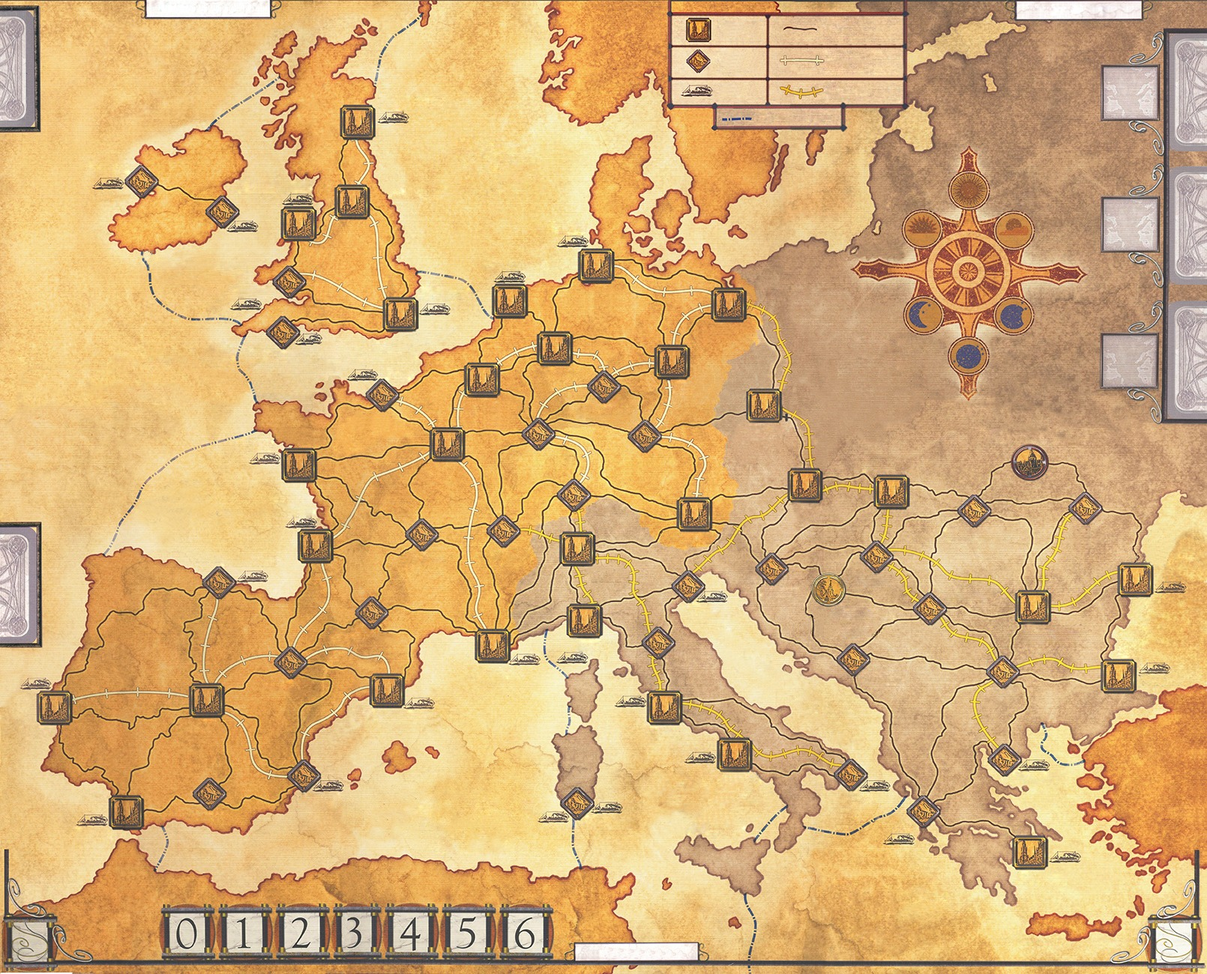
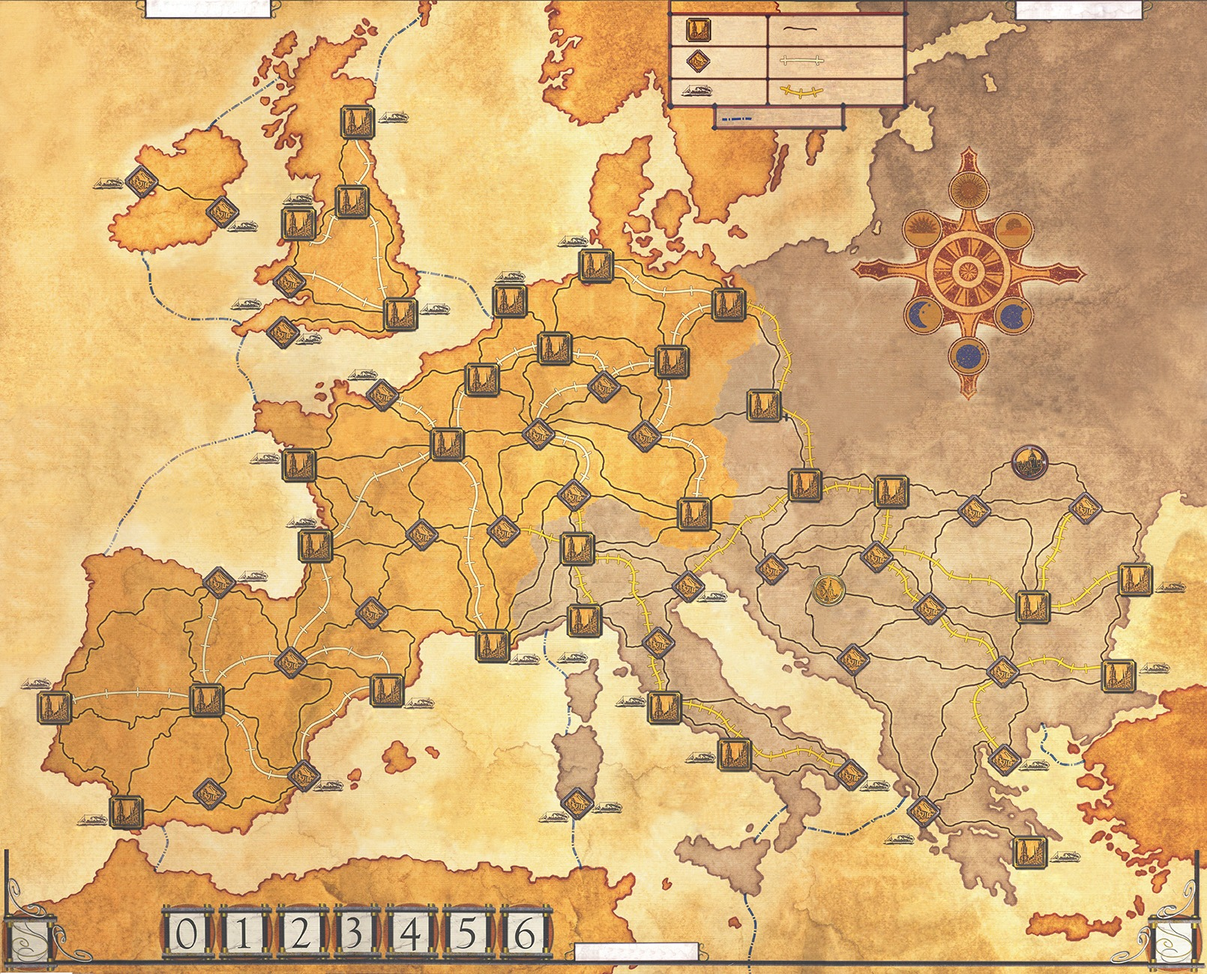
1)player card column at the right 2)add menu

Changed region(s): [[0.9006, 0.0308, 1.0, 0.4615], [0.0, 0.5231, 0.0621, 0.6769], [0.0, 0.0, 0.0621, 0.1538]]

diff --git a/dracula/GUI/Scene.qml b/dracula/GUI/Scene.qml
@@ -4,11 +4,10 @@ import "../GUI"
 
 Rectangle {
     id: scene
-    property double scaleKoef:1
-    anchors.fill: parent
-    color: "#de1313"
+    anchors.fill : parent
+    color: "transparent"
 
-
+    property real cardRowWidth : gameWindow.height *0.1
     property var dayNightY : [0.215997, 0.175820, 0.217840, 0.3052, 0.345742, 0.30446]
     property var dayNightX : [0.746869, 0.785033, 0.823494, 0.8226, 0.785033, 0.74836]
 
@@ -35,7 +34,6 @@ Rectangle {
                 playerRepeater.itemAt(k).phi = guimanager.getPlayerPhi(k)
                 playerRepeater.itemAt(k).isChoosed = (k === whoMoves) ? true : false
                 playerRepeater.itemAt(k).scale = 1
-                //playerRepeater.itemAt(k).scale = (k === whoMoves) ? 1.0 : 1
             }
             dayNight.index = guimanager.getDayNightPosition()
             console.log("DayNightPosition = ", guimanager.getDayNightPosition())
@@ -52,30 +50,45 @@ Rectangle {
     //property bool isWindowSizeChanged
     function changeMapSize() {
         animated = false // forbit any animation during resizing
-        flickable.contentWidth = gameWindow.width
-        flickable.contentHeight = map.sourceSize.height * gameWindow.width / map.sourceSize.width
+        var w = scene.width - playerCards.width
+        flickable.contentWidth = w
+        flickable.contentHeight = map.sourceSize.height * w / map.sourceSize.width
     }
 
     Image {
         id:background
         source : "file:" + "../images/wood.jpg"
-        anchors.fill: parent
+        anchors.fill: scene
+//        z:1
+    }
+
+    Rectangle{
+        id:mapRect
+        color: "transparent"
+        anchors.left: scene.left
+        anchors.top:scene.top
+        width : scene.width - playerCards.width
+        height: scene.height
     }
 
     Flickable
     {
         id: flickable
-        anchors.fill: parent
+//        anchors.fill: parent
+        anchors.fill : mapRect
         contentWidth:  map.width
         contentHeight: map.height
-        interactive: true
-        //boundsBehavior: Flickable.StopAtBounds
+//        interactive: true
+        boundsBehavior: Flickable.StopAtBounds
         Image {
             id: map
             anchors.fill: parent
             source: "file:" + "../images/map.jpg"
             Component.onCompleted: {
-                var mult = gameWindow.width / map.sourceSize.width
+//                var mult = gameWindow.width / map.sourceSize.width
+//                var mult = (scene.width - playerCards.width)/ map.sourceSize.width
+//                var mult = (gameWindow.width - playerCards.width)/ map.sourceSize.width
+                var mult = (gameWindow.width - cardRowWidth)/ map.sourceSize.width //TODO variable gameWindow.height*0.1 is in playerCard too
                 flickable.contentWidth = map.sourceSize.width * mult
                 flickable.contentHeight =  map.sourceSize.height * mult
             }
@@ -83,12 +96,20 @@ Rectangle {
                 id: mouseAreaScene
                 anchors.fill: parent
                 onWheel: {
-                    var sideIsBigger = flickable.contentWidth > gameWindow.width || flickable.contentHeight > gameWindow.height
-                    var sideIsSmaller = flickable.contentWidth < gameWindow.width || flickable.contentHeight < gameWindow.height
+                    var w = scene.width - playerCards.width
+//                    var w = gameWindow.width
+                    var sideIsBigger = flickable.contentWidth > w || flickable.contentHeight > scene.height
+//                    var sideIsSmaller = flickable.contentWidth < w || flickable.contentHeight < scene.height
+                     var sideIsSmaller = flickable.contentWidth < w
                     if ((sideIsBigger && wheel.angleDelta.y < 0) || (sideIsSmaller && wheel.angleDelta.y > 0))
                     {
                         flickable.contentWidth *= (1 + 0.25 * wheel.angleDelta.y / 1800)
                         flickable.contentHeight *= (1 + 0.25 * wheel.angleDelta.y / 1800)
+                        if (flickable.contentWidth  > w) {
+                            var mult = w / flickable.contentWidth
+                            flickable.contentWidth *= mult
+                            flickable.contentHeight *= mult
+                        }
                     }
                 }
             }
@@ -295,9 +316,11 @@ Rectangle {
 
     AnimatedImage {
         anchors.top : parent.top
+//        anchors.horizontalCenter: parent.horizontalCenter
         anchors.left: parent.left
-        anchors.leftMargin: 8 * gameWindow.width / 10
-        width : gameWindow.width / 10
+        anchors.leftMargin: 0
+//        anchors.leftMargin: 8 * gameWindow.width / 10
+        width : gameWindow.width / 12
         height: sourceSize.height * width / sourceSize.width
         source: "file:" + "../images/bat.gif"
         MouseArea {
@@ -312,9 +335,21 @@ Rectangle {
 
     Track{
         id: track
+        width : scene.width - scene.cardRowWidth
     }
     PlayerCards {
         id :playerCards
+        imageWidth: scene.height * 0.1
+    }
+
+    GameMenu{
+        id : gameMenu
+        anchors.centerIn: parent
+        visible: false
+    }
+
+    Keys.onPressed: {
+        if (event.key === Qt.Key_Escape) gameMenu.visible = !gameMenu.visible;
     }
 
     //TODO load city location, use repeater to create N mouse area, in cycle modify x,y

diff --git a/dracula/GUI/GameMenu.qml b/dracula/GUI/GameMenu.qml
@@ -1,0 +1,48 @@
+import QtQuick 2.0
+import QtQuick.Layouts 1.1
+import "../GUI"
+
+Rectangle {
+    id  : menuRect
+    property var menuItems : ["Play", "Window Mode", "Help", "Load", "Exit"]
+    width: scene.width / 2
+    height: width * gameMenuBackground.sourceSize.height / gameMenuBackground.sourceSize.width
+
+    Image {
+        id: gameMenuBackground
+        anchors.fill: parent
+        source: "file:" + "../images/background.jpg"
+
+        MouseArea{  //otherwise image is opacity for clicking
+            onClicked: {
+
+            }
+        }
+    }
+    ColumnLayout {
+        anchors.fill: parent
+        Repeater{
+//            anchors.fill: parent
+            model : menuItems.length
+            Text {
+                Layout.alignment: Qt.AlignCenter
+                text : menuItems[index]
+                font {
+                    family: cityFont.name;
+                    pixelSize: scene.width * 1 / 50
+//                    pixelSize:  gameMenuBackground.sourceSize.height / (8 * menuItems.length);
+                    weight: Font.Bold;
+                    //bold: true
+                }
+                color : "red"
+                MouseArea{
+                    anchors.fill: parent
+                    onClicked: {
+                        gameWindow.close()
+                    }
+                }
+            }
+        }
+    }
+}
+

diff --git a/dracula/GUI/PlayerCards.qml b/dracula/GUI/PlayerCards.qml
@@ -1,9 +1,13 @@
 import QtQuick 2.0
 
-Row {
-    anchors.bottom: parent.bottom
-    anchors.horizontalCenter: parent.horizontalCenter
-    spacing: scene.width / 6
+Column {
+    id : cardColumn
+    property real imageWidth
+    anchors.right: scene.right
+    anchors.top : scene.top
+    height: scene.height
+    anchors.verticalCenter: scene.verticalCenter
+    spacing: scene.height / 5 - imageWidth
     Repeater {
         id : hunterCards
         model: 5
@@ -11,9 +15,9 @@ Row {
             objectName: "playerCard" + index
             //id: name111
             opacity: 0.5
-            width : scene.width * 0.05
+            width : imageWidth
             height: width
-            source: "file:" + "../images/players/fig" + index + ".png"
+            source: "file:" + "../images/players/card" + index + ".png"
             //property int nameOpacity : 0
             Text {
                 id: name

diff --git a/dracula/GUI/main.qml b/dracula/GUI/main.qml
@@ -5,9 +5,11 @@ import QtQuick.Window 2.2
 Window {
     id : gameWindow
     //visibility: "Maximized"
+    flags: (gameWindow.visibility === Window.Maximized) ? "FramelessWindowHint" : ""
+    //flags: "WindowTitleHint"
     visible: true
     width: 800
-    height: 800
+    height: 600
     Scene{
         id : scene
         anchors.fill: parent
@@ -15,4 +17,10 @@ Window {
     onWidthChanged: {
         scene.changeMapSize()
     }
+
+    onVisibilityChanged: {
+        console.log("gameWindow.visibility = ", gameWindow.visibility)
+        scene.changeMapSize()
+    }
+
 }

diff --git a/dracula/GUI/Track.qml b/dracula/GUI/Track.qml
@@ -7,7 +7,7 @@ Image {
     property double part : 1.0
     property double heightToWidth : sourceSize.height /  sourceSize.width
     height: heightToWidth * gameWindow.width
-    anchors.right: parent.right
+//    anchors.right: parent.right
     anchors.left: parent.left
     anchors.top: parent.top
     anchors.topMargin: -heightToWidth * gameWindow.width * part
